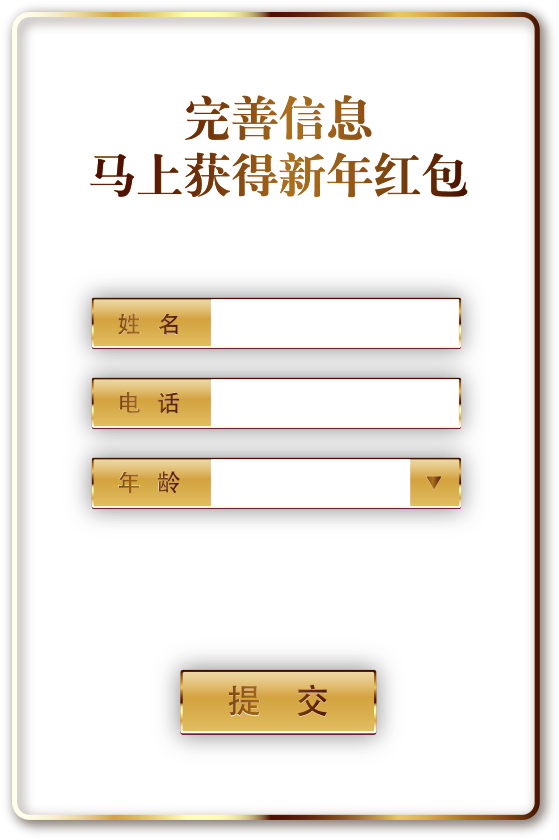
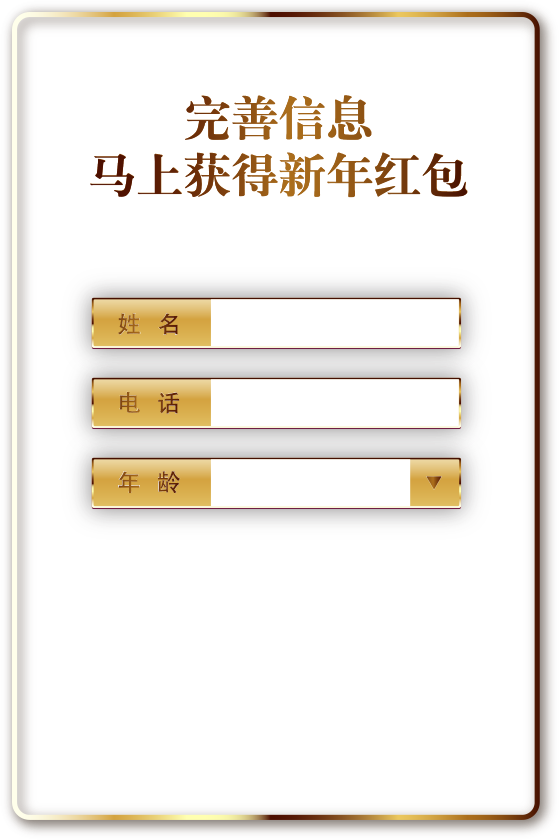
代码优化，按钮调整

Changed region(s): [[0.3041, 0.7738, 0.6995, 0.8976]]

diff --git a/Code/js/index.js b/Code/js/index.js
@@ -2,34 +2,34 @@ var SEG = {
     currentPage: 1,
     formData: { name: "", age: 0, phone: 0 }
 };
-function HideWater(nowWaterIndex){
-	if(nowWaterIndex==6){
-   return ;
-   }
-   else{
-	setTimeout(function(){
-	$('#water-'+nowWaterIndex).addClass("fade-out");
-	setTimeout(function(){$('#water-'+nowWaterIndex).addClass("hide");},500);
-	//$('#water-'+nowWaterIndex).addClass("hide");
-	nowWaterIndex++;
-	HideWater(nowWaterIndex);
-	},300-nowWaterIndex*40);
-   }
+function HideWater(nowWaterIndex) {
+    if (nowWaterIndex != 6) {
+        setTimeout(function () {
+            $('#water-' + nowWaterIndex).addClass("fade-out");
+            setTimeout(function () {
+                $('#water-' + nowWaterIndex).addClass("hide");
+            }, 500);
+            nowWaterIndex++;
+            HideWater(nowWaterIndex);
+        }, 300 - nowWaterIndex * 40);
+    }
 }
-function ShowWater(nowWaterIndex){
-   if(nowWaterIndex==6){
-   setTimeout( function(){HideWater(1);},300);
-   return ;
-   }
-   else{
-	setTimeout(function(){
-	$('#water-'+nowWaterIndex).addClass("fadeIn");
-	setTimeout(function(){$('#water-'+nowWaterIndex).removeClass("hide");},1000);
-	nowWaterIndex++;
-	ShowWater(nowWaterIndex);
-	},300);
-   }
-   }
+
+function ShowWater(nowWaterIndex) {
+    setTimeout(function () {
+        if (nowWaterIndex == 6) {
+            HideWater(1);
+        }
+        else {
+            $('#water-' + nowWaterIndex).addClass("fadeIn");
+            setTimeout(function () {
+                $('#water-' + nowWaterIndex).removeClass("hide");
+            }, 1000);
+            nowWaterIndex++;
+            ShowWater(nowWaterIndex);
+        }
+    }, 300);
+}
 $(function () {
     document.addEventListener('touchmove', function (e) {
         e.preventDefault();
@@ -42,25 +42,29 @@ $(function () {
         $(".page-1 .oil-2").addClass("scale-to-up");
         $(".page-1 .oil-3").addClass("oil-drop-down-scale");
         $(".page-1 .oil-4").addClass("oil-drop-down");
-		setTimeout(function (){ShowWater(1)},400);
+        setTimeout(function () {
+            ShowWater(1);
+        }, 400);
+
         setTimeout(function () {
             $(".page-1 .bg-black").addClass("fade-out");
         }, 1500);
+
         setTimeout(function () {
             $(".page-1 .bg-white").addClass("fade-in-out");
-            $(".page-1 .bg-wh   ite").removeClass("hide");
-        }, 1800);
+            $(".page-1 .bg-white").removeClass("hide");
+        }, 2000);
 
         setTimeout(function () {
             $(".page-1 .bg-black").addClass("hide");
-        }, 2000);
+        }, 2200);
 
         setTimeout(function () {
             $(".page-1 .bg-white").addClass("hide");
             $(".page-1 .text-1").removeClass("hide");
             $(".page-1 .text-2").removeClass("hide");
             $(".page-1 .button-2").removeClass("hide");
-        }, 2800);
+        }, 3000);
     });
 
     $(".page-1 .button-2").click(function () {
@@ -91,11 +95,11 @@ $(function () {
         SEG.formData.age = 4;
         $(".page-1 .form .dropdown").addClass("hide");
     });
-    $(".form .button-submit").click(function () {
+    $(".form .button-3").click(function () {
         //js上传数据操作，并根据返回结果进行页面展示
         SEG.formData.phone = $(".page-1 .form .phone").val();
         SEG.formData.name = $(".page-1 .form .name").val();
-       // SEG.formData.age = $(".page-1 .form .age").val();
+        // SEG.formData.age = $(".page-1 .form .age").val();
         //$(".page-6 .phone-number").html("手机号：" + SEG.formData.phone);//为了后面显示用
 
         //这里发出ajax请求，并对返回的json进行判断，如果正确的话进行下面两行的操作，否则，不进行任何操作。

diff --git a/Code/index.html b/Code/index.html
@@ -23,18 +23,16 @@
         <div class="oil-1"></div>
         <div class="oil-2"></div>
         <div class="oil-4"></div>
-		<div id="water" style="margin-top:95%;width:100%">
-	<img class="hide" id="water-1" style="position:absolute;width:99%" src="img/water/1.png"/>
-	<img class="hide" id="water-2" style="position:absolute;width:99%" src="img/water/2.png"/>
-	<img class="hide" id="water-3"  style="position:absolute;width:99%" src="img/water/3.png"/>
-	<img class="hide" id="water-4" style="position:absolute;width:99%" src="img/water/4.png"/>
-	<img class="hide" id="water-5" style="position:absolute;width:99%" src="img/water/5.png"/>
-	<img class="hide" id="water-6" style="position:absolute;width:99%" src="img/water/6.png"/>
-	
-	
-	</div>
+        <div id="water" style="margin-top:95%;width:100%">
+            <img class="water hide" id="water-1" style="position:absolute;width:99%" src="img/water/1.png" />
+            <img class="water hide" id="water-2" style="position:absolute;width:99%" src="img/water/2.png" />
+            <img class="water hide" id="water-3" style="position:absolute;width:99%" src="img/water/3.png" />
+            <img class="water hide" id="water-4" style="position:absolute;width:99%" src="img/water/4.png" />
+            <img class="water hide" id="water-5" style="position:absolute;width:99%" src="img/water/5.png" />
+            <img class="water hide" id="water-6" style="position:absolute;width:99%" src="img/water/6.png" />
+        </div>
         <div class="oil-3"></div>
-		
+
         <div class="button-2 blink hide"></div>
         <div class="form hide">
             <input class="name" value="" />
@@ -46,7 +44,7 @@
                 <div class="dropdown-age-3">36-45岁</div>
                 <div class="dropdown-age-4">45岁以上</div>
             </div>
-            <div class="button-submit"></div>
+            <div class="button-3"></div>
         </div>
     </div>
 

diff --git a/Code/css/index.css b/Code/css/index.css
@@ -217,12 +217,14 @@ div {
         top: 230px;
     }
 
-    .form .button-submit {
-        width: 100px;
-        height: 30px;
+    .form .button-3 {
+        width: 128px;
+        height: 64px;
         left: 50%;
-        margin-left: -50px;
-        top: 336px;
+        margin-left: -64px;
+        top: 300px;
+        background-size: 100% 100%;
+        background-image: url("../img/button-3.png");
     }
 
 .page-2 .bg {
@@ -305,18 +307,18 @@ div {
     }
 }
 
-
-
 @-webkit-keyframes fadeIn {
-0% {
-opacity: 0; /*初始状态 透明度为0*/
-}
-50% {
-opacity: 0.25; /*中间状态 透明度为0*/
-}
-100% {
-opacity: 0.5; /*结尾状态 透明度为1*/
-}
+    0% {
+        opacity: 0; /*初始状态 透明度为0*/
+    }
+
+    50% {
+        opacity: 0.25; /*中间状态 透明度为0*/
+    }
+
+    100% {
+        opacity: 0.5; /*结尾状态 透明度为1*/
+    }
 }
 
 .fade-in-out {
@@ -335,6 +337,10 @@ opacity: 0.5; /*结尾状态 透明度为1*/
     100% {
         opacity: 0;
     }
+}
+
+.water {
+    opacity: .5;
 }
 
 .blink {
